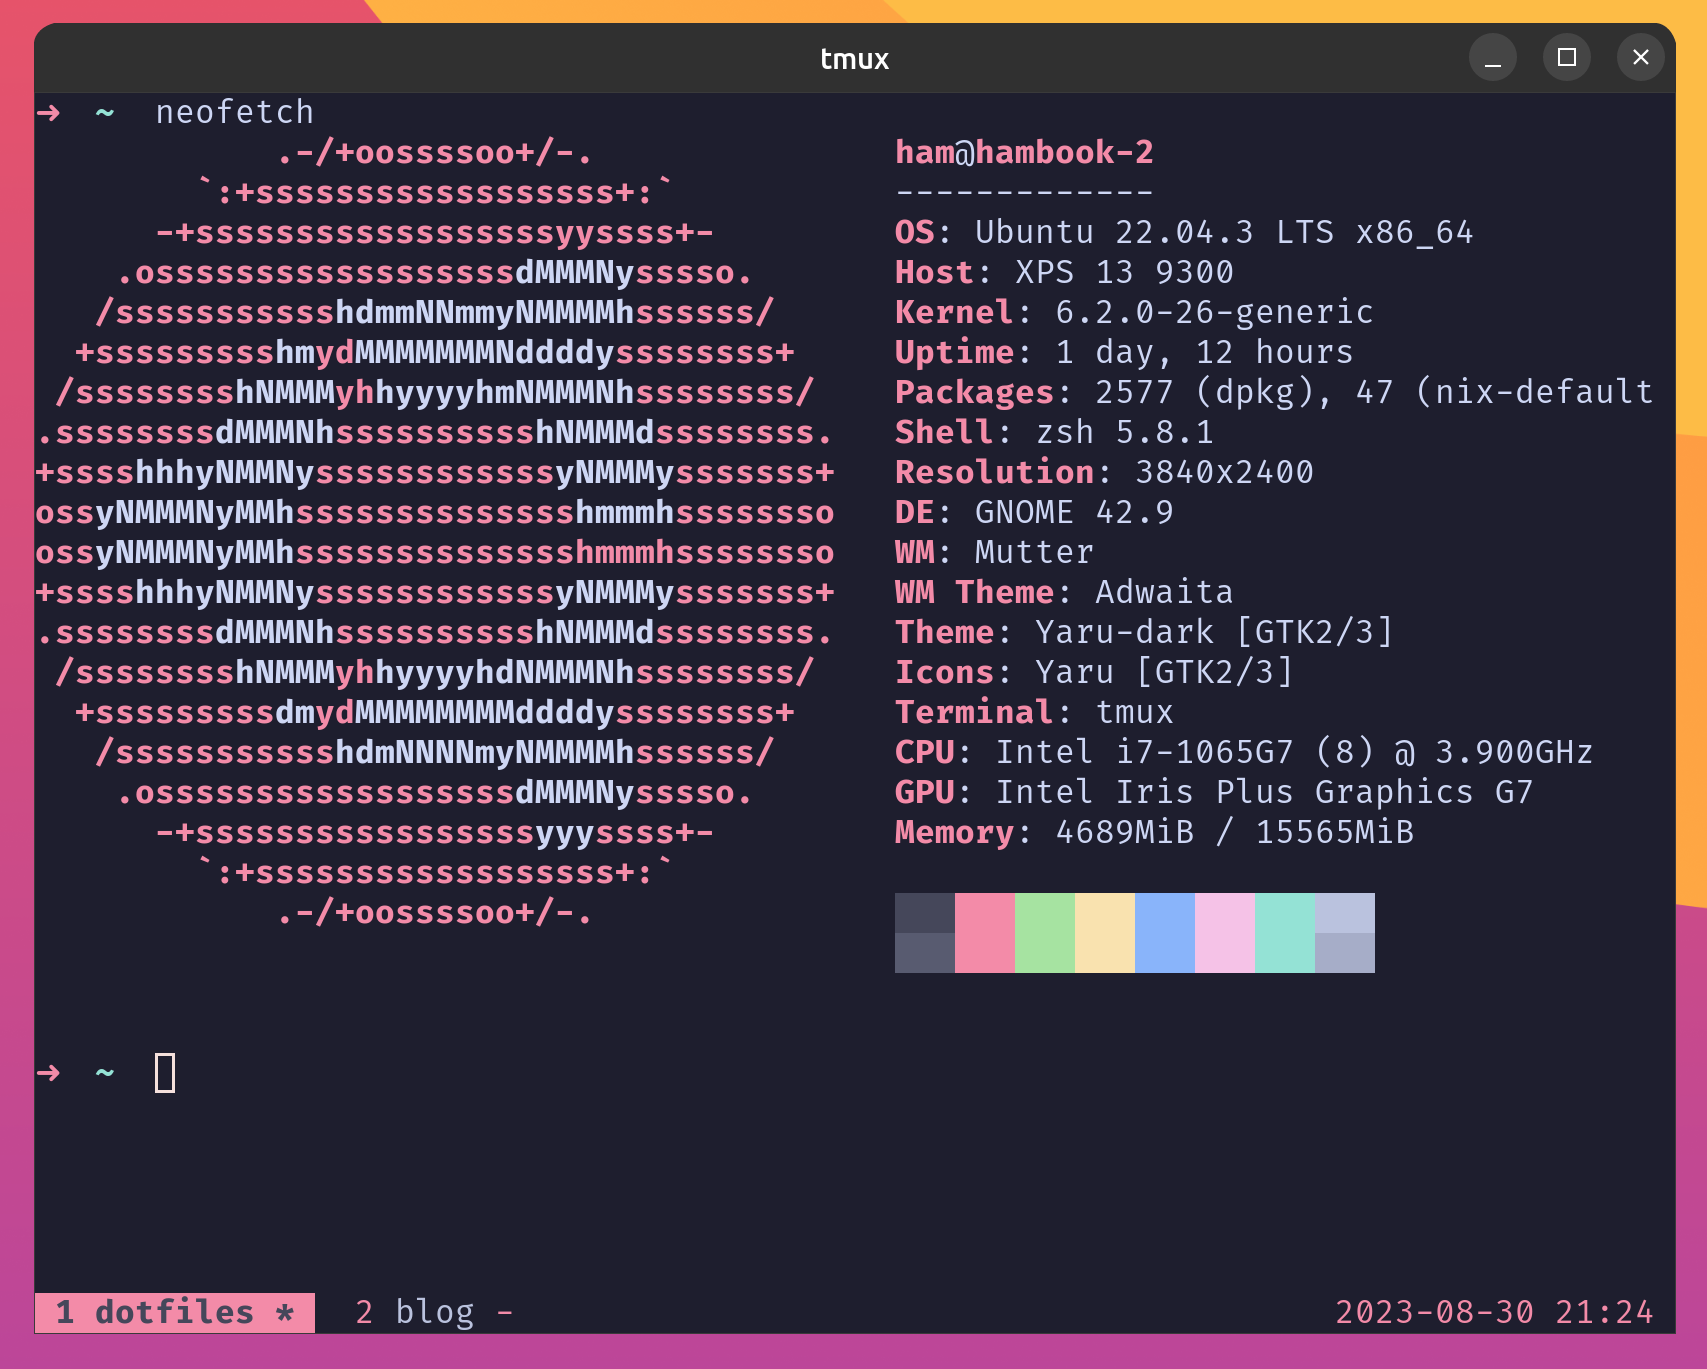
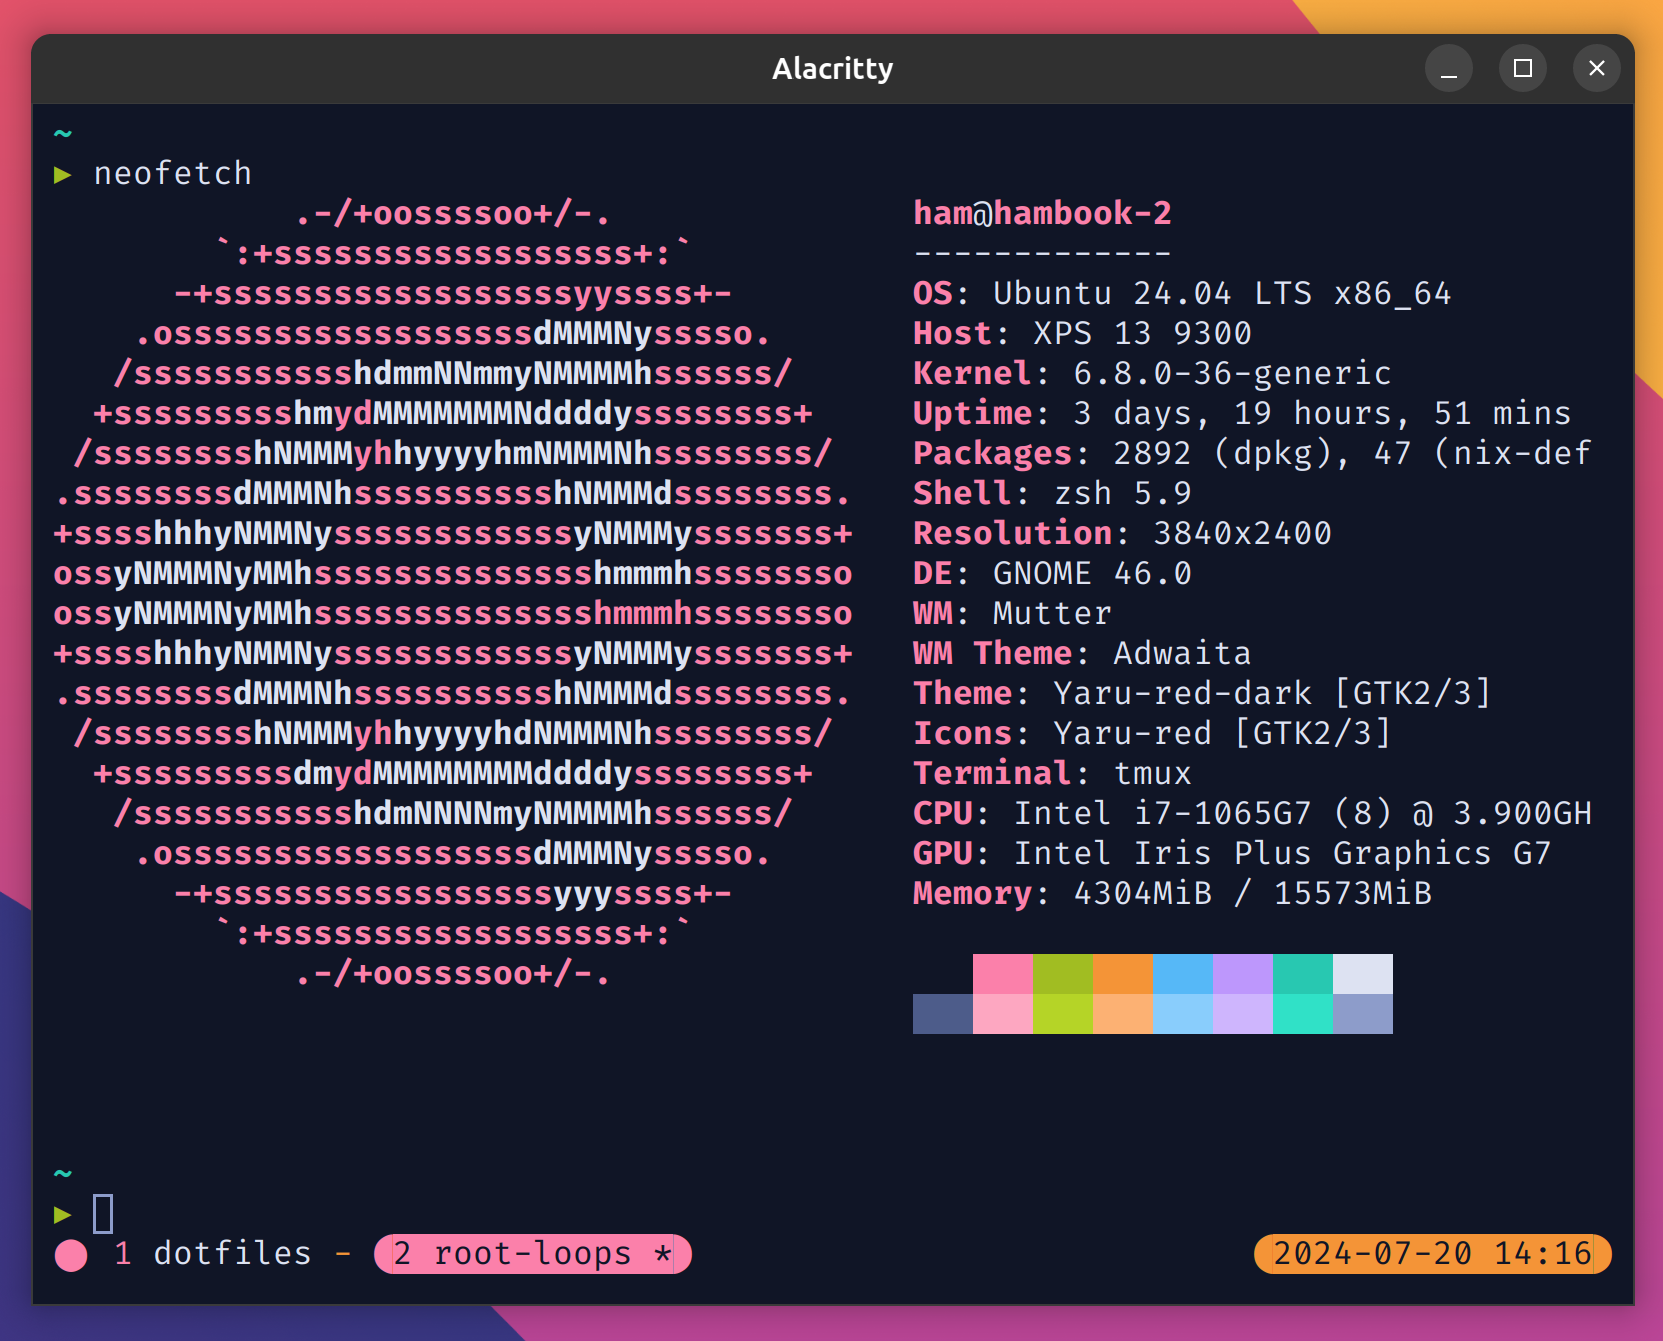
update screenshot, readme

diff --git a/README.md b/README.md
@@ -1,27 +1,28 @@
 dotfiles
 ========
 
-A collection of my personal dotfiles. 
+A collection of my personal dotfiles.
 
-Here's a little preview of what it looks like with the lovely [catppuccin theme](https://github.com/catppuccin/catppuccin) enabled.
-
+Here's a little preview of what it looks like with a gorgeous
+[**Root Loops theme**](https://rootloops.sh) enabled.
 
 ![tmux screenshot](screenshot.png)
 
-
 Installation
 ------------
+
 Your first step is to clone this repository:
 
     git clone https://github.com/hamvocke/dotfiles.git ~/.dotfiles
 
 ### Manual Installation
+
 Create symbolic links for the configurations you want to use, e.g.:
 
     ln -s ~/.dotfiles/vim/.vimrc ~/.vimrc
 
-
 ### Using [GNU Stow](https://www.gnu.org/software/stow/) _(recommended)_
+
 Install GNU Stow _(if not already installed)_
 
     Mac:      brew install stow
@@ -37,8 +38,10 @@ Then simply use stow to install the dotfiles you want to use:
 
 Consistent colors
 -----------------
+
 To get the most out of my dotfiles I recommend using matching colorschemes for various applications. One way would be to use [base16-shell](https://github.com/chriskempson/base16-shell) on your system, define it in your `.zshrc` and let that handle setting your colors globally. Alternatively, you can pick a well-loved colorscheme and set it up in your terminal emulator (e.g. alacritty), vim, and other tools you'd want to use. 
 
 Additional configuration
 ------------------------
+
 Some of the configurations need additional setup or configuration. If that's the case you can find a `README.md` file in the application's directory. Make sure to take a look at it to see what else there is to do to make the configuration work on your system.
